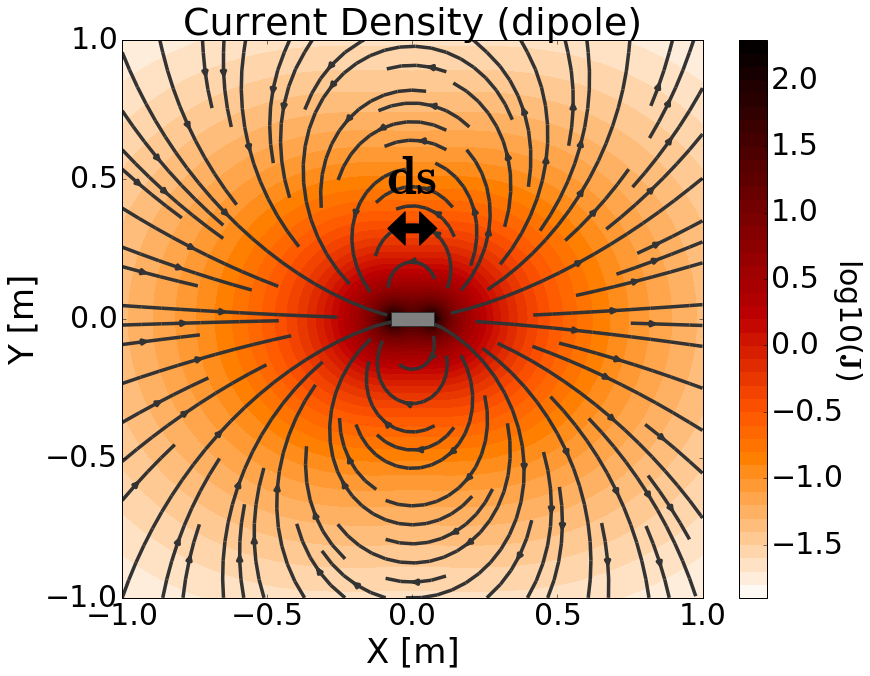
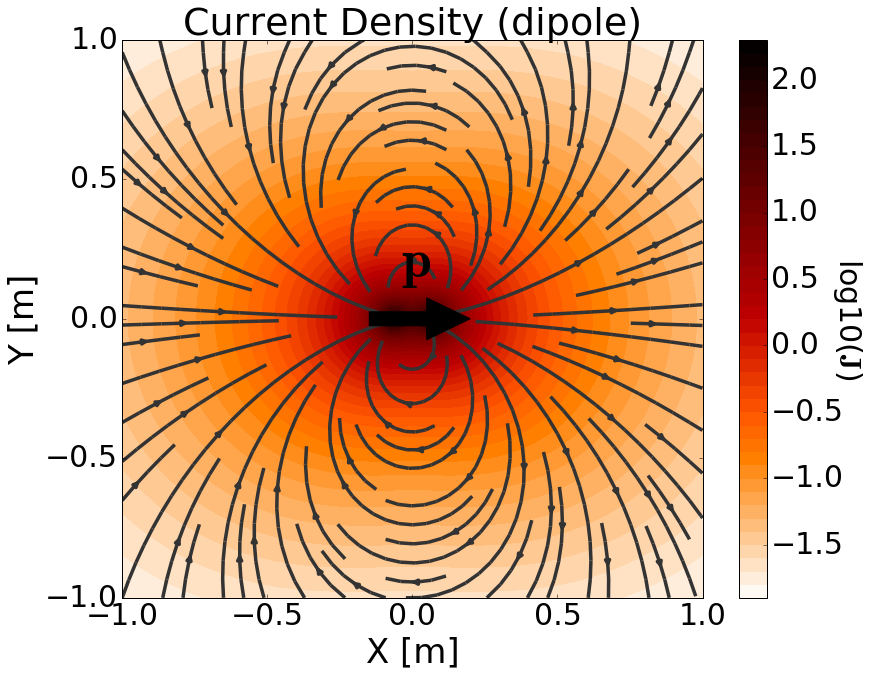
E harmonic dipole definition with images

Changed region(s): [[0.4034, 0.2175, 0.5586, 0.497]]

diff --git a/content/maxwell1_fundamentals/maxwells_equations/maxwells_equations_in_homogeneous_media/dipole_sources/electric_dipole_frequency/index.rst b/content/maxwell1_fundamentals/maxwells_equations/maxwells_equations_in_homogeneous_media/dipole_sources/electric_dipole_frequency/index.rst
@@ -10,40 +10,59 @@ Harmonic Electrical Current Dipole
     This is used to develop a mathematical expression which can be used to replace the electrical source term in Maxwell's equations. 
 
 
+
+.. figure:: images/E_source_current_dipole.png
+		:align: right
+		:figwidth: 50%
+
+        	Physical representation of the electrical current dipole source.
+
+
+
 The harmonic electrical current dipole source can be thought of as an infinitesimally short length of wire which carries a harmonic current.
-In many cases, this type of source is referred to as the 'electric dipole source'; however a true electric dipole represents the polarization of electrical charges of opposite sign.
+This source current is responsible for generating a current density in the surrounding region; secondary electric and magnetic fields are discussed later.
+The strength of the source is defined by its dipole moment (:math:`\mathbf{p}`).
+In many cases, this type of source is referred to as the 'electric dipole source'.
+However a true electric dipole represents the polarization of electrical charges of opposite sign.
+
 
 **Primary Current Density from a Finite Wire**
 
 
 In order to develop a proper definition for the electrical current dipole, let us first consider the source current from a wire of finite length.
 Assume the wire has length :math:`\Delta s` and carries a current :math:`I` which flows in the :math:`\hat x` direction along the wire.
-Thus the source current density :math:`\mathbf{J (r)}` for the wire is given by:
+The source current density :math:`\mathbf{J_e (r)}` for the wire segment is given by:
 
 .. math::
-	\mathbf{J (r)} = \hat x I \Delta s \Bigg [ \frac{\textrm{u}\big (x + \frac{\Delta s}{2} \big ) - \textrm{u} \big ( x - \frac{\Delta s}{2} \big )}{\Delta s} \Bigg ] \delta (y) \delta (z)
+	\mathbf{J_e (r)} = \hat x I \Delta s \Bigg [ \frac{\textrm{u}\big (x + \frac{\Delta s}{2} \big ) - \textrm{u} \big ( x - \frac{\Delta s}{2} \big )}{\Delta s} \Bigg ] \delta (y) \delta (z)
 
-
-.. figure:: images/E_source_finte_wire.png
-		:align: right
-		:figwidth: 50%
-		:name: FiniteWire
-
-        	Primary electrical current density due to a finite current-carrying wire.
 
 
 where :math:`u(x)` is the unit step function and :math:`\delta (x)` is the Dirac delta function.
-In Maxwell's equations, :math:`\mathbf{J (r)}` could be used to define an electrical source term.
+In Maxwell's equations, :math:`\mathbf{J_e (r)}` defines the electrical source term.
 
-As we can see from :numref:`FiniteWire`, the source generates a primary current density in the surrounding region.
-Notice how the primary current density flows out one end of the wire and into the other.
-Additionally, the current density is much larger near either end of the wire and decreases exponentially with distance.
+As we can see from :numref:`FiniteWire`, the source generates a current density (:math:`\mathbf{J}`) in the surrounding region.
+Notice how the current flows out one end of the wire and into the other :numref:`FiniteWire` (left).
+When the wire segment is much smaller than the scale of observation, then it appears as though the current density converges at a single point; which we see in :numref:`FiniteWire` (right).
+The purpose of the electrical current dipole is to approximate a finite wire segment when observation scales are much larger than the wire's length. 
+The electrical current dipole accomplishes this by defining a source term which exists at a single point in space.
+
+
+
+.. figure:: images/E_source_finte_wire.png
+		:align: center
+		:figwidth: 100%
+		:name: FiniteWire
+
+        	Electrical current density due to a finite current-carrying wire. Near the wire (left). Far away from the wire (right).
+
+
 
 
 **Defining the Electrical Current Dipole**
 
-The electrical current dipole is defined by letting :math:`\Delta s \rightarrow ds`; making it a wire of infinitessimal length.
-From the previous equation, the source current density for a harmonic electrical current dipole in the :math:`\hat x` direction is given by:
+The electrical current dipole source is defined by letting :math:`\Delta s \rightarrow ds` in the previous equation; making it a wire of infinitessimal length.
+As a result, the source current density for a harmonic electrical current dipole in the :math:`\hat x` direction is given by:
 
 .. figure:: images/E_source_current_dipole.png
 		:align: right
@@ -54,28 +73,36 @@ From the previous equation, the source current density for a harmonic electrical
 
 
 .. math::
-	\mathbf{J(r)} = \hat x I ds \delta (x) \delta (y) \delta (z)
+	\mathbf{J_e(r)} = \hat x I ds \delta (x) \delta (y) \delta (z)
 
 
-By examining :numref:`CurrentDipole`, we see that the primary current density converges to a single point.
-However, the primary current density still flows outwards from one side and into the other.
+By examining :numref:`CurrentDipole`, we see that the current density in the surrounding region converges to a single point; just like in :numref:`FiniteWire` (right).
+However like a wire segment, current still flows outwards from one side of the source and into the other.
 
 
-The strength of the electrical current dipole source is defined by a **dipole moment** (:math:`p`).
-By definition from the previous equation, the dipole moment for an electrical current dipole has magnitude:
-
-.. math::
-	p = I ds
-	
-
-By considering an electrical current dipole oriented in an arbitrary direction, the source current becomes a vector (:math:`\mathbf{I}`).
+If we consider an electrical current dipole oriented in an arbitrary direction, the source current becomes a vector (:math:`\mathbf{I}`).
 Thus, the source current density for an electrical current dipole is given by:
 
 .. math::
-	\mathbf{J(r)} = \mathbf{I}ds \, \delta (x) \delta (y) \delta (z) = \mathbf{p} \, \delta (x) \delta (y) \delta (z)
+	\mathbf{J_e (r)} = \mathbf{I}ds \, \delta (x) \delta (y) \delta (z) 
 
 
-where the dipole moment :math:`\mathbf{p}` has both magnitude and direction.
+
+The strength of the electrical current dipole source is defined by its **dipole moment** (:math:`p`).
+As we can see from the previous equation, the source term depends on the product :math:`\mathbf{I} ds`.
+Thus the dipole moment for an electrical current dipole source is given by:
+
+.. math::
+	\mathbf{p} = \mathbf{I}ds
+	
+
+and
+
+
+.. math::
+	\mathbf{J_e (r)} = \mathbf{p} \, \delta (x) \delta (y) \delta (z) 
+
+
 
 
 
